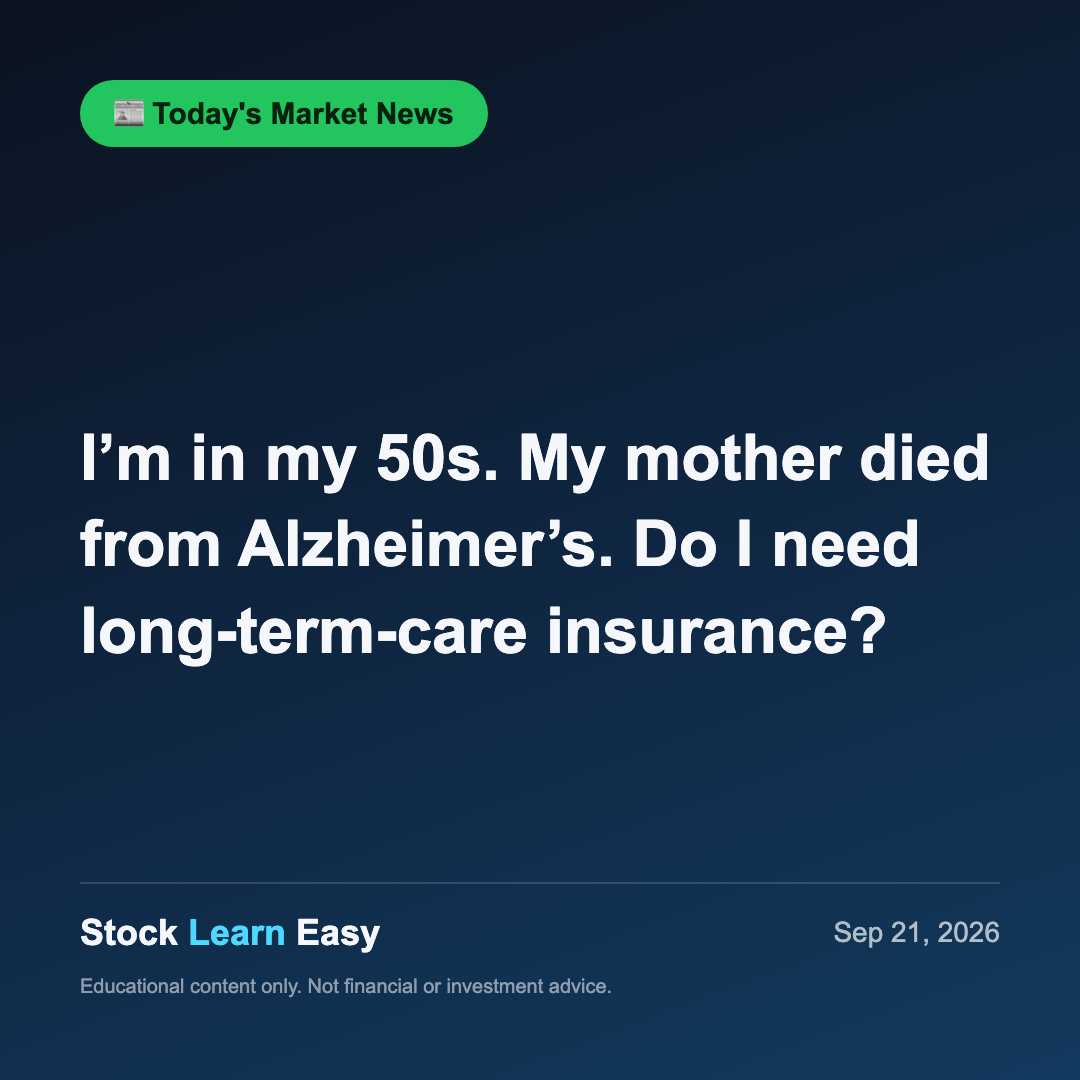
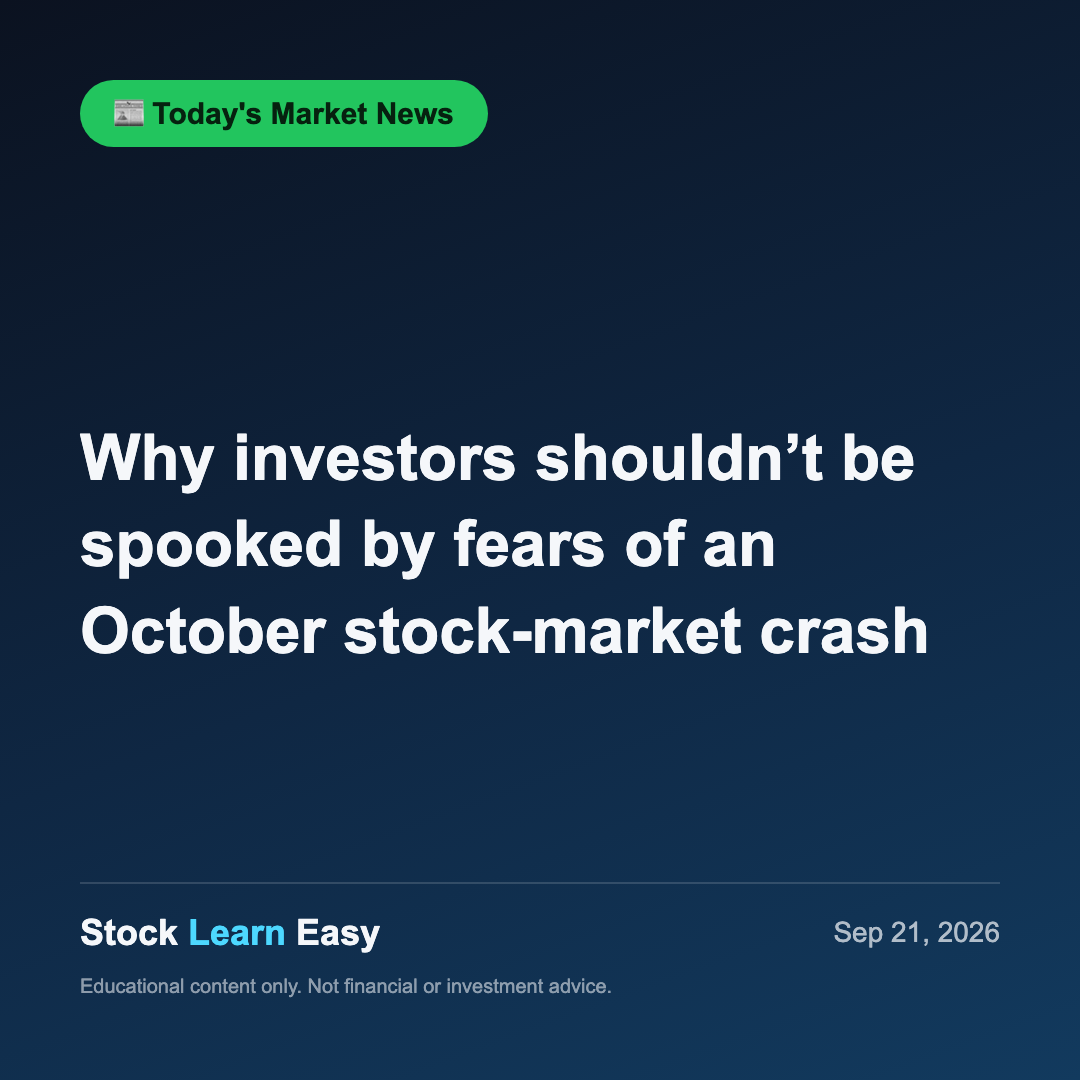
Fix off-brand filter: author blocklist + apostrophe/quote gaps
While auditing the queue, found two Moneyist personal-advice columns
(Alzheimer's/long-term care, a cousin's finances) had slipped past
the filter into the scheduled queue. Two real gaps:

- The regex only matched a straight apostrophe ('), but real headlines
  use the Unicode curly one (’): "I’m in my 50s..." never
  matched "i'm ".
- The ^ anchor assumed the headline starts with "I"/"My", but these
  columns often open with a quoted phrase first: "'I’m burned
  out': I’m constantly helping my cousin...".

Both of MarketWatch's RSS feeds carry a dc:creator field, and every
off-brand post seen so far turned out to be the same columnist
(Quentin Fottrell, who writes The Moneyist). That's now the primary,
much more reliable filter; the keyword regex stays as a backup for
when there's no author or a different columnist writes similarly
personal content.

Re-audited the full queue after the fix: all 6 scheduled + 3
published posts are on-brand, all 9 images pass validation.

Changed region(s): [[0.0611, 0.3972, 0.9167, 0.6111]]

diff --git a/generate.py b/generate.py
@@ -44,12 +44,25 @@ TARGET_QUEUE_DEPTH = 6  # 3 days worth at 2/day
 
 CHROME = "/Applications/Google Chrome.app/Contents/MacOS/Google Chrome"
 
-# MarketWatch's feeds mix in personal-advice columns ("The Moneyist")
-# that have nothing to do with markets. Filter those out rather than
-# post them under a stock-market-education brand.
+# MarketWatch’s feeds mix in personal-advice columns ("The Moneyist",
+# written by Quentin Fottrell) that have nothing to do with markets.
+# Filter those out rather than post them under a stock-market-education
+# brand. The author byline turned out to be a 100% reliable signal for
+# this - every off-brand post seen so far is by this one columnist -
+# so that’s the primary check now. Keyword matching is kept as a
+# backup for when the feed has no author, or a different columnist
+# writes similarly personal content.
+OFF_BRAND_AUTHORS = {"quentin fottrell"}
+
+# NOTE: apostrophes/quotes in real headlines are the Unicode curly
+# forms (‘ ’ “ ”), not ASCII ones, and a headline can
+# open with a quoted phrase before the "I" (e.g. "’I’m burned
+# out’: I’m constantly helping..."). Both gaps let posts slip
+# through undetected on 18-19.9.2026 before the author check existed.
 OFF_BRAND_PATTERN = re.compile(
-    r"^(my |i |i'm |i've |we |our )|"
-    r"\b(husband|wife|boyfriend|girlfriend|in-law|inheritance|divorce)\b",
+    r"^[\"’‘’“”\s]*(my |i |i[’’]m |i[’’]ve |we |our )|"
+    r"\b(husband|wife|boyfriend|girlfriend|in-law|inheritance|divorce|"
+    r"mother|father|parent|sibling|cousin|elderly|funeral|estate|alzheimer)\b",
     re.IGNORECASE,
 )
 
@@ -177,6 +190,9 @@ TERMS = [
 
 
 def is_on_brand(headline):
+    author = (headline.get("author") or "").strip().lower()
+    if author in OFF_BRAND_AUTHORS:
+        return False
     return not OFF_BRAND_PATTERN.search(headline["title"])
 
 
@@ -188,6 +204,9 @@ def load_json_set(path):
 
 def save_json_set(path, data):
     path.write_text(json.dumps(sorted(data), ensure_ascii=False, indent=2))
+
+
+RSS_NS = {"dc": "http://purl.org/dc/elements/1.1/"}
 
 
 def fetch_headlines():
@@ -207,10 +226,12 @@ def fetch_headlines():
                 continue
             seen_titles.add(title)
             desc_el = item.find("description")
+            creator_el = item.find("dc:creator", RSS_NS)
             items.append({
                 "title": title,
                 "description": desc_el.text if desc_el is not None else "",
                 "link": item.find("link").text,
+                "author": creator_el.text if creator_el is not None else "",
             })
     return items
 
